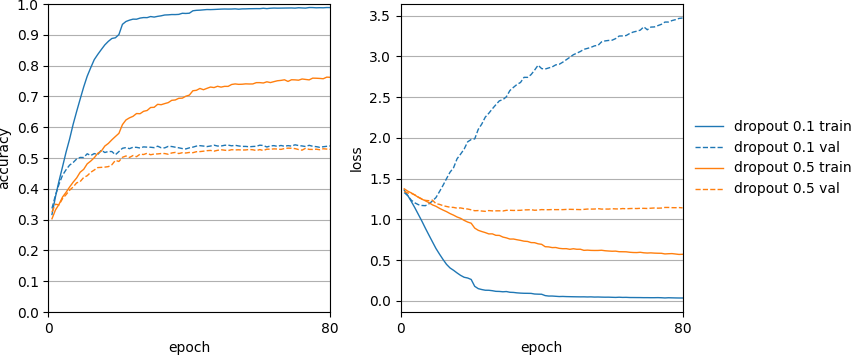
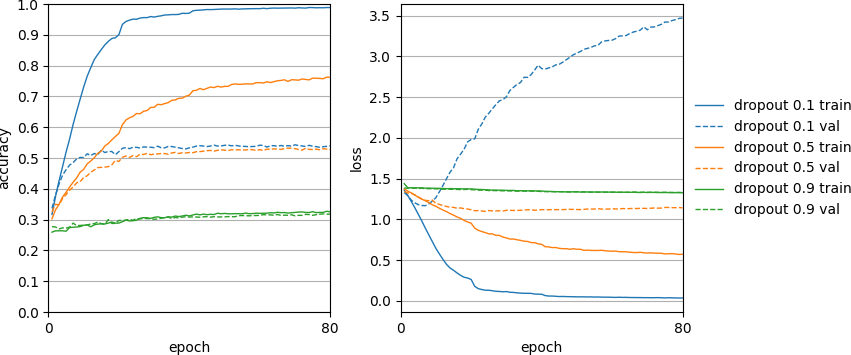
Add more plots and 0.9 dropout

diff --git a/plots/machine_learning/create_machine_learning_plots.py b/plots/machine_learning/create_machine_learning_plots.py
@@ -166,9 +166,9 @@ if __name__ == "__main__":
                                                img_name="bci2000_LSTM_comparison.png")
 
     base_dir = '../../logs/fit/bci2000_dropout_comparison/'
-    sub_dirs = ['eegA0.1/', 'eegA0.5/']
+    sub_dirs = ['eegA0.1/', 'eegA0.5/', 'eegA0.9/']
     create_bci2000_averaged_cv_comparison_plot(dirs=[f"{base_dir}{sub_dir}" for sub_dir in sub_dirs],
-                                               names=['dropout 0.1', 'dropout 0.5'],
+                                               names=['dropout 0.1', 'dropout 0.5', 'dropout 0.9'],
                                                img_name="bci2000_dropout_comparison.png")
 
     dirs = ['../../logs/fit/bci2000_class_number_comparison/2class/',
@@ -185,8 +185,20 @@ if __name__ == "__main__":
                                                names=["8-13, 13-21, 21-30", "4-8, 8-13, 13-30", "0.5-4, 8-13, 13-30"],
                                                img_name="bci2000_frequency_band_comparison.png")
 
+    dirs = ['../../logs/fit/bci2000_model_comparison/eegA32S/',
+            '../../logs/fit/bci2000_image_size_comparison/64pixel/']
+    create_bci2000_averaged_cv_comparison_plot(dirs=dirs,
+                                               names=["32 pixel", "64 pixel"],
+                                               img_name="bci2000_image_size_comparison.png")
+
     base_dir = '../../logs/fit/bci2aiv_model_comparison/'
     sub_dirs = ['eegA32/', 'eegB32/', 'eegC32/', 'eegD32/']
     create_bci2aiv_averaged_plot(dirs=[f"{base_dir}{sub_dir}" for sub_dir in sub_dirs],
                                  names=['eegA', 'eegB', 'eegC', 'eegD'],
                                  img_name="bci2aiv_model_32filter_stride_comparison.png")
+
+    base_dir = '../../logs/fit/bci2aiv_model_comparison/'
+    sub_dirs = ['eegA32S/', 'eegA_LSTM/', 'eegD32S/', 'eegD_LSTM/', ]
+    create_bci2aiv_averaged_plot(dirs=[f"{base_dir}{sub_dir}" for sub_dir in sub_dirs],
+                                 names=['eegA', 'eegA_LSTM', 'eegD', 'eegD_LSTM'],
+                                 img_name="bci2aiv_LSTM_comparison.png")
